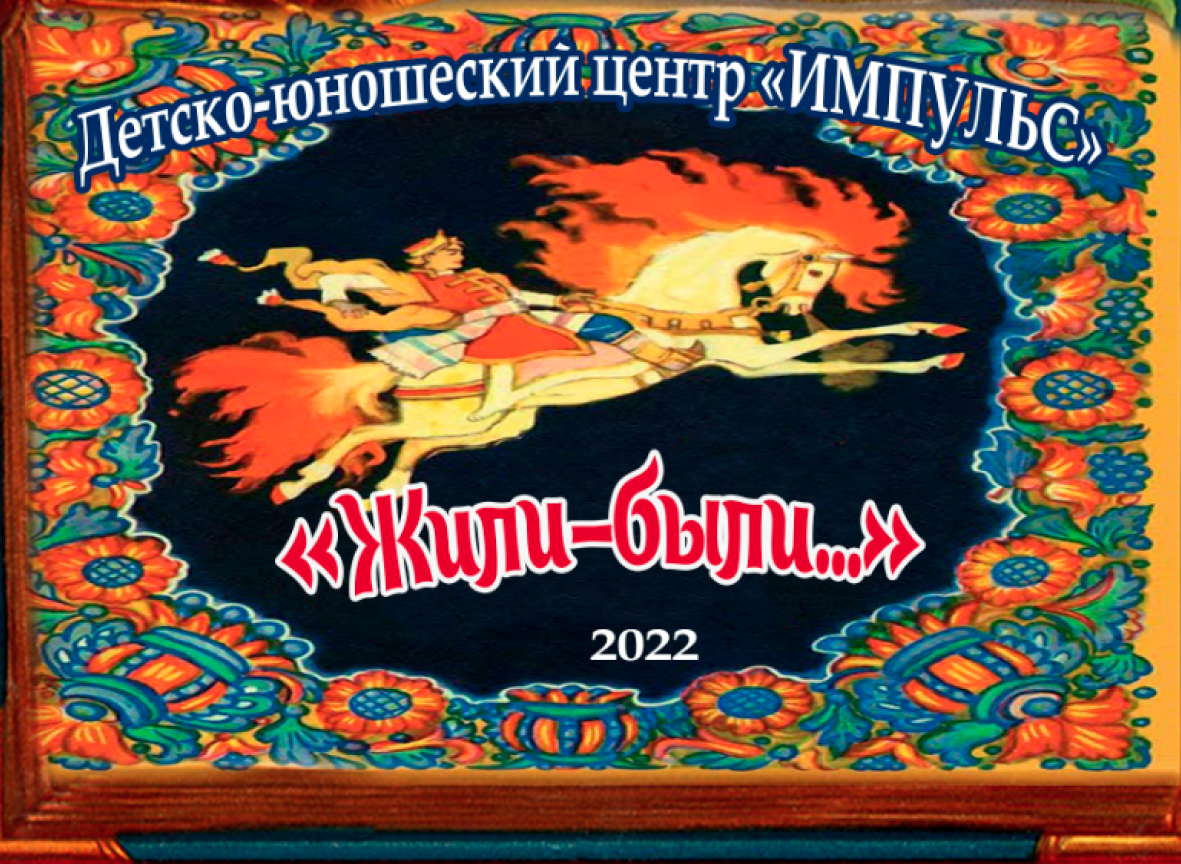
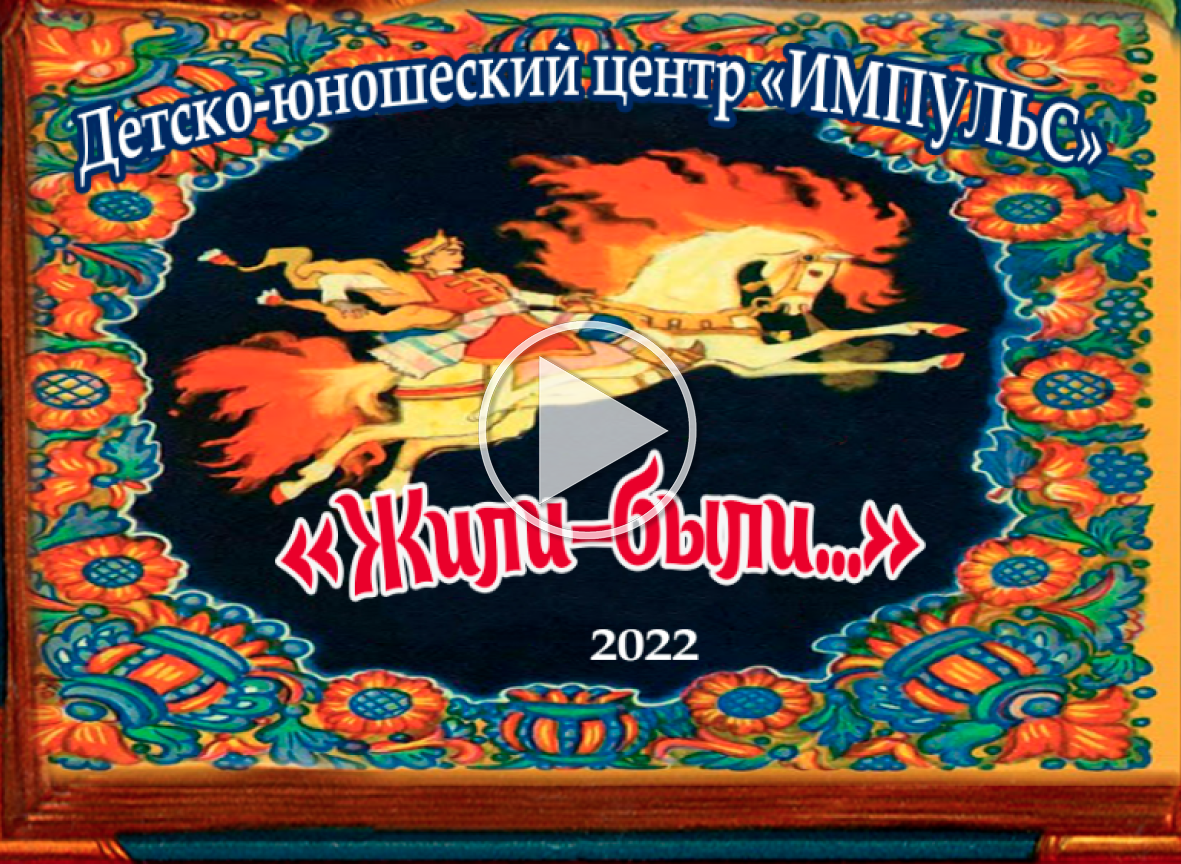
minor fixes

Changed region(s): [[0.3963, 0.3438, 0.6097, 0.6562]]

diff --git a/index.html b/index.html
@@ -82,14 +82,15 @@
 
         <div>
             <img src="images/generic/godpedagoga.png" alt="Год педагога и наставника">
-            <a href="#" class="contest">КОНКУРС САЙТОВ ОБРАЗОВАТЕЛЬНЫХ ОРГАНИЗАЦИЙ" здесь</a>
         </div>
 
     </section>
 
     <section class="bottom-section">
 
-        <img src="images/generic/reporting-concert.png" alt="Отчетный концерт">
+        <a href="https://www.youtube.com/watch?v=w8NLyol1jz8">
+            <img src="images/generic/reporting-concert.png" alt="Отчетный концерт">
+        </a>
 
         <div class="news">
             <a href="archive.html"><h2>Новости</h2></a>
@@ -169,7 +170,7 @@
                 участвовать в интересных занятиях, направленных на его всеобъемлющее и полноценное развитие.
                 Квалифицированные педагоги и специалисты, включая логопеда и психолога, работают здесь, используя
                 авторские методические программы и находя индивидуальный подход к каждому ребенку.</p>
-            <p class="about-us-link">«Импульс» откроет двери в счастливую взрослую жизнь!</p>
+            <p><b>«Импульс» откроет двери в счастливую взрослую жизнь!</b></p>
 
         </div>
     </div>

diff --git a/style.css b/style.css
@@ -179,9 +179,8 @@ section {
 
 .top-section img {
     width: 585px;
-    height: 253px;
+    height: 284px;
     border-radius: 10px;
-    margin-bottom: 10px;
 }
 
 .contest {
@@ -1189,11 +1188,6 @@ footer {
         margin-bottom: 10px;
     }
 
-    .about-us-link {
-        font-weight: 700;
-        color: #1594A9 !important;
-    }
-
     .resources {
         justify-content: center;
     }
@@ -1381,6 +1375,11 @@ footer {
         flex-direction: column;
     }
 
+    .main .title {
+        font-size: 35px;
+        margin: 10px 0 -5px 0;
+    }
+
     .top-section {
         display: flex;
         flex-direction: column-reverse;
@@ -1515,13 +1514,17 @@ footer {
         margin: 10px 0 10px 0;
     }
 
+    .associations-list a {
+        width: 45vw;
+    }
+
     .associations-list-left {
         margin: 0 0 20px 0;
         justify-content: center;
         width: 100%;
     }
 
-    .associations-list-left .association-card:nth-child(1) {
+    .associations-list-left a:nth-child(1) {
         margin-right: 10px;
     }
 
@@ -1531,7 +1534,7 @@ footer {
         width: 100%;
     }
 
-    .associations-list-right .association-card:nth-child(1) {
+    .associations-list-right a:nth-child(1) {
         margin-right: 10px;
     }
 
@@ -1589,9 +1592,9 @@ footer {
         margin-bottom: 10px;
     }
 
-    .about-us-link {
-        font-weight: 700;
-        color: #1594A9 !important;
+    .advertisement .title {
+        font-size: 35px;
+        margin-top: 20px;
     }
 
     .feedback {
